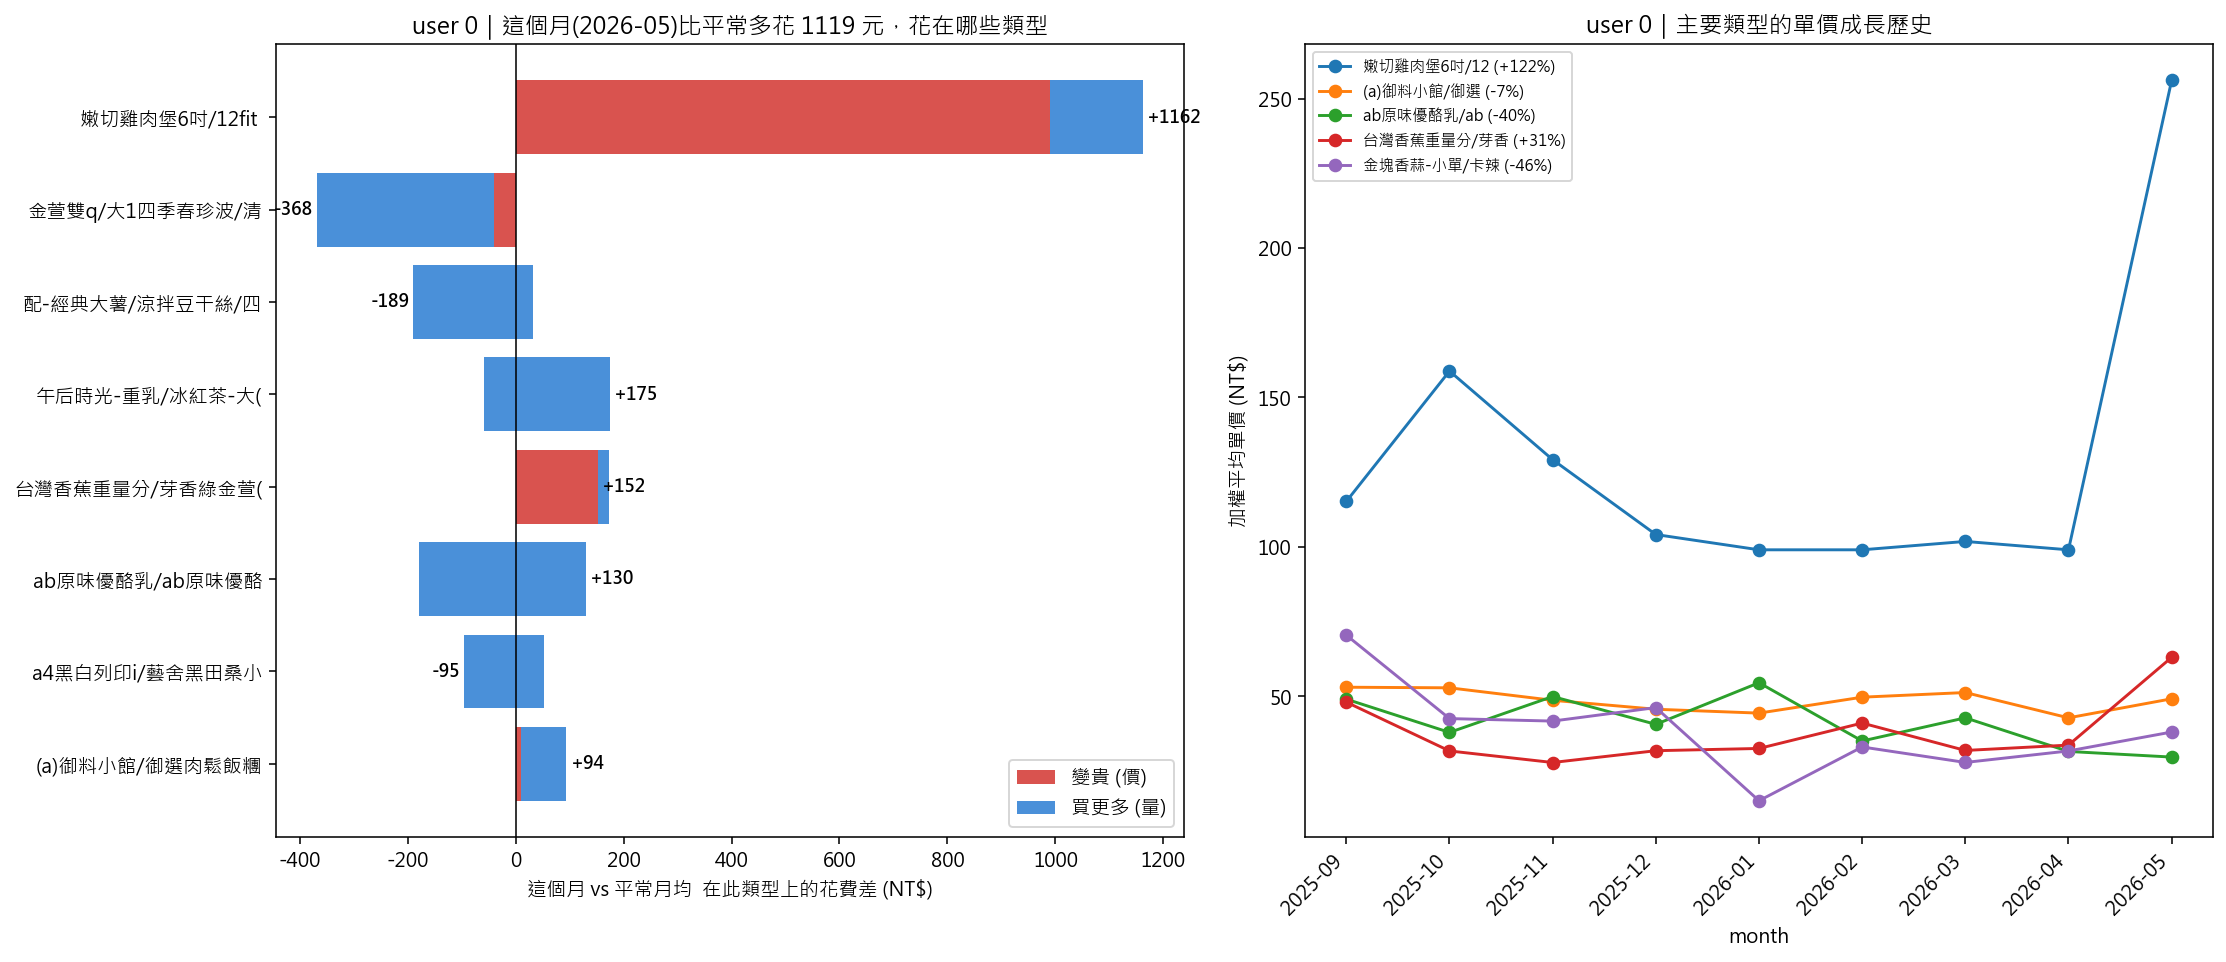
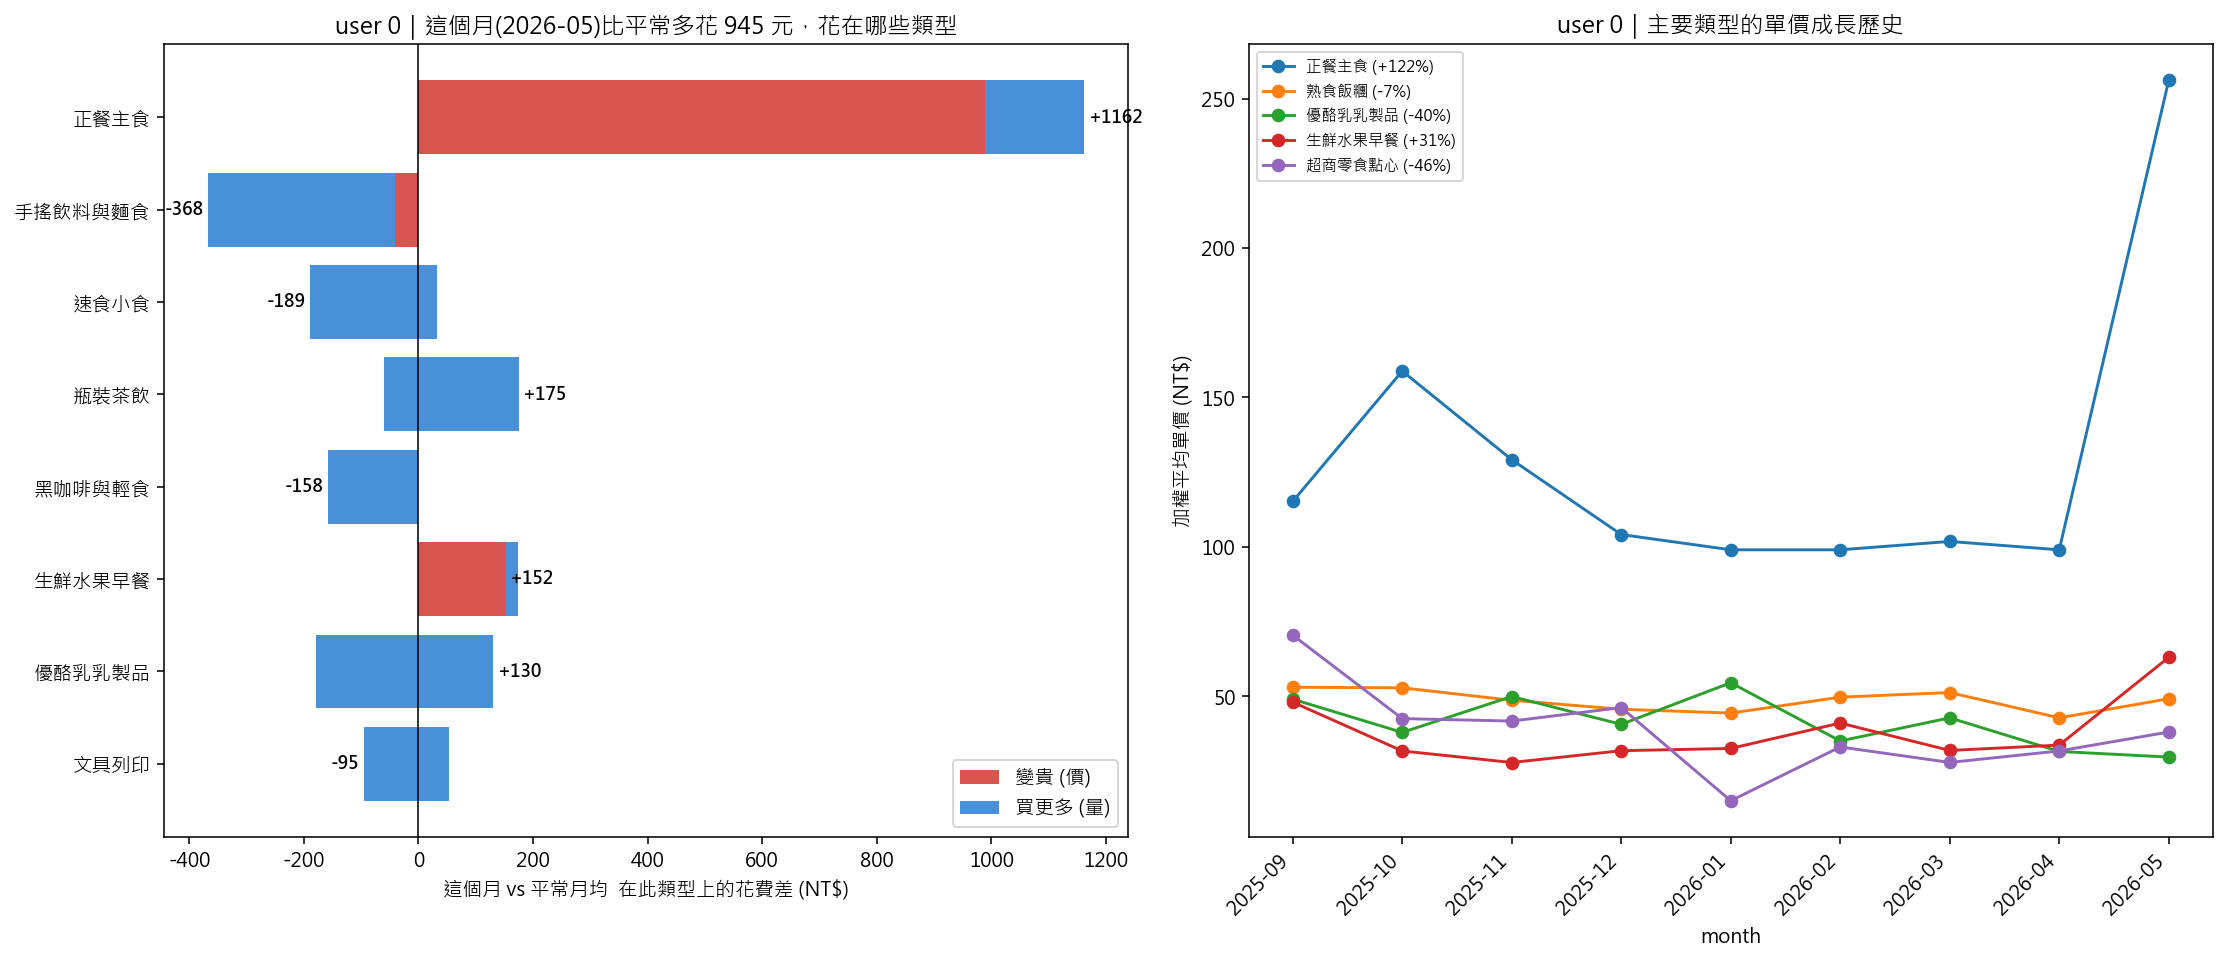
feat: supertype K=25 human naming + regenerate figures + update REPORT
- Named all 25 supertypes (美式咖啡/正餐主食/手搖飲料與麵食/…)
- Regenerated step3d_K25_user{0,1,2}.png with clean Chinese labels
- Added make_supertype_members.py → supertype_K25_members.csv (all items per supertype)
- Updated REPORT.md §4-5 to use supertype analysis as primary (not fine-grain clusters)
- Analysis now shows: user0 +945 (正餐主食 +1162), user1 -720, user2 +285 (速食+瓶裝茶飲)

diff --git a/member_c/make_supertype_members.py b/member_c/make_supertype_members.py
@@ -1,0 +1,45 @@
+"""產生超類型(K=25)的完整品項對照表。
+
+輸出：outputs/supertype_K25_members.csv
+欄位：super / custom_name / n_distinct_items / n_rows / unit_price_p50
+      / top_items（前20品項:次數）/ all_items（全部）
+"""
+from __future__ import annotations
+import pandas as pd
+import c_common as cc
+import step3d_supertypes as s3d
+import naming
+
+def main():
+    df, emb = s3d.load_clean_with_emb()
+    s = s3d.assign_super(df, emb, 25)
+
+    # 套用命名
+    names = naming.load_names(naming.super_names_path(25), "super")
+
+    rows = []
+    for super_id in sorted(s["super"].unique()):
+        sub = s[s["super"] == super_id]
+        vc = sub[cc.COL_ITEM].value_counts()
+        cname = names.get(super_id, sub["type_label"].iloc[0])
+        rows.append({
+            "super": super_id,
+            "custom_name": cname,
+            "n_distinct_items": sub[cc.COL_ITEM].nunique(),
+            "n_rows": len(sub),
+            "n_users": sub[cc.COL_USER].nunique(),
+            "unit_price_p10": round(sub[cc.COL_UNIT].quantile(0.1), 1),
+            "unit_price_p50": round(sub[cc.COL_UNIT].median(), 1),
+            "unit_price_p90": round(sub[cc.COL_UNIT].quantile(0.9), 1),
+            "top_items": " | ".join(f"{i}({c})" for i, c in vc.head(20).items()),
+            "all_items": " | ".join(f"{i}({c})" for i, c in vc.items()),
+        })
+
+    out = pd.DataFrame(rows).sort_values("n_rows", ascending=False)
+    path = cc.OUT_DIR / "supertype_K25_members.csv"
+    out.to_csv(path, index=False, encoding="utf-8-sig")
+    print(f"已輸出 {path}（{len(out)} 個超類型）")
+    print(out[["super", "custom_name", "n_rows", "n_distinct_items", "unit_price_p50"]].to_string(index=False))
+
+if __name__ == "__main__":
+    main()
